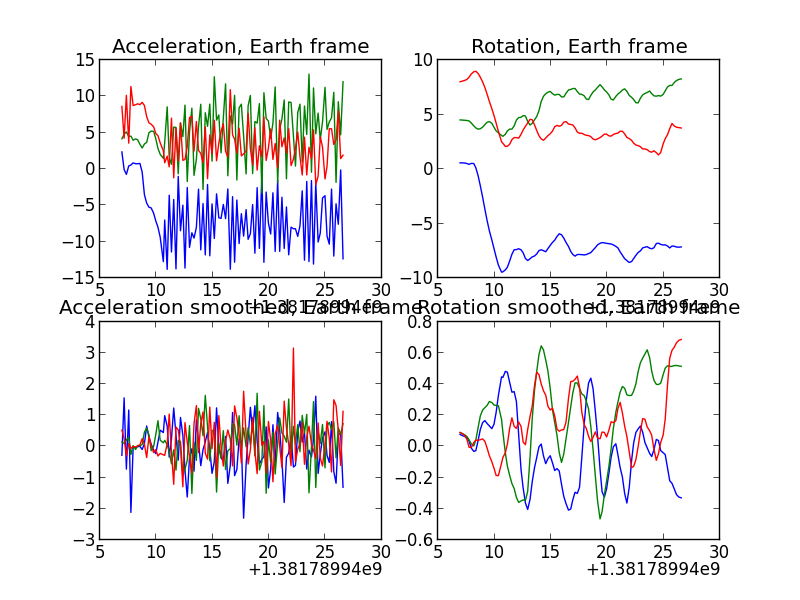
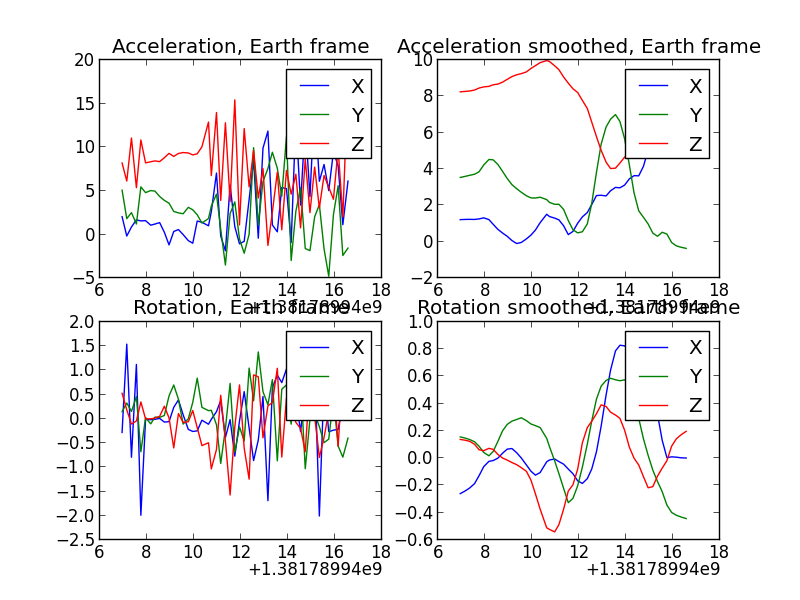
Got the clean_circle.tsv data fine-tuned.

diff --git a/isometry_H1.py b/isometry_H1.py
@@ -16,39 +16,48 @@ from quaternion import Quaternion as H
 #-------------------------------------
 
 class Config:
-  def __init__(self, t_f, delta_t, a_f, r_f, t_i = 0, a_i=H(), v_i=H(), p_i=H(), r_i=H(), o_i=H(1,0,0,0)):
+  def __init__(self, t_f, delta_t, a_d, r_d, t_i = 0, a_i=H(), v_i=H(), p_i=H(), r_i=H(), o_i=H(1,0,0,0)):
+    # we integrate the initial coordinates for a time delta_t.
+    # the final coordinates are computed here and recorded
+    # to become the initial values for the subsequent step.
+
+    # all '*_i' and '*_f' variables are in earth coordinates.
+    # the '*_d' varibles are deltas in the moving coordinates of the device.
+    # thus, they should be applied to the initial (trans'd) coords to give the final transformed coords.
+
     self.delta_t = delta_t
 
     self.t_i = t_i # initial time
-    self.a_i = a_i # initial acceleration of primed origin wrt unprimed origin
-    self.v_i = v_i # initial velocity of primed origin wrt unprimed origin
-    self.p_i = p_i # initial location of primed origin wrt unprimed origin
-    self.r_i = r_i # initial rotational velocity of primed coords wrt unprimed coords
-    self.o_i = o_i # initial orientation of primed coords wrt unprimed coords
+    self.a_i = a_i # initial acceleration in transformed coords
+    self.v_i = v_i # initial velocity in transformed coords
+    self.p_i = p_i # initial location in transformed coords
+    self.r_i = r_i # initial rotational velocity in transformed coords
+    self.o_i = o_i # initial orientation in transformed coords
 
     self.t_f = t_f # final time
-    self.a_f = a_f # final acceleration of primed origin wrt unprimed origin
-    self.r_f = r_f # final rotational velocity of primed coords wrt unprimed coords
+    #self.a_f = a_f # final acceleration of primed origin wrt unprimed origin
+    #self.r_f = r_d # final rotational velocity in transformed coords
 
-    self.updateOrientation()
-    self.updatePosition()
+    self.updateOrientation(r_d)
+    self.updatePosition(a_d)
 
-  def updatePosition(self):
-    self.a_f = self.o_f * self.a_f * ~self.o_f
+  def updatePosition(self, a_d):
+    self.a_f = self.o_f * a_d * ~self.o_f
     self.v_f = self.v_i + (self.a_i + self.a_f)/2.0 * self.delta_t
     self.p_f = self.p_i + (self.v_i + self.v_f)/2.0 * self.delta_t
 
-  def updateOrientation(self):
+  def updateOrientation(self, r_d):
     # r_n units are radians per second.
     # to get the current orientation, exponentiate the _previous_ rotational rate
     # for a time of self.delta_t, starting from the previous orientation
-    self.o_f = ((self.r_i * self.delta_t).exp() * self.o_i).normalize()
+    self.r_f = self.o_i * r_d * ~self.o_i
+    self.o_f = ((self.r_f * self.delta_t).exp() * self.o_i).normalize()
 
   def getInitialConfig(self):
-    return (self.a_i, self.v_i, self.p_i, self.r_i, self.o_i)
+    return (self.t_i, self.a_i, self.v_i, self.p_i, self.r_i, self.o_i)
 
   def getFinalConfig(self):
-    return (self.a_f, self.v_f, self.p_f, self.r_f, self.o_f)
+    return (self.t_f, self.a_f, self.v_f, self.p_f, self.r_f, self.o_f)
 
   def setFinalConfig(self, t_f, a_f, v_f, p_f, r_f, o_f):
     self.t_f = t_f
@@ -59,13 +68,17 @@ class Config:
     self.o_f = o_f
 
   def printConfig(self):
+    '''
+    print 't_i: %s' % (self.t_i)
     print 'a_i: %s' % (self.a_i)
     print 'v_i: %s' % (self.v_i)
     print 'p_i: %s' % (self.p_i)
     print 'r_i: %s' % (self.r_i)
     print 'o_i: %s' % (self.o_i)
-    print 'a_f: %s' % (self.a_f)
-    print 'v_f: %s' % (self.v_f)
+    '''
+    print 't_f: %s' % (self.t_f)
+    print 'a_f: %s, %s' % (self.a_f, abs(self.a_f))
+    print 'v_f: %s, %s' % (self.v_f, abs(self.v_f))
     print 'p_f: %s' % (self.p_f)
     print 'r_f: %s' % (self.r_f)
     print 'o_f: %s' % (self.o_f)
@@ -79,9 +92,9 @@ class Configs:
     self.aConfigs.append(initConfig)
 
   def addConfig(self, t_f, delta_t, a_f, r_f):
-    finalConfig = self.aConfigs[len(self.aConfigs)-1].getFinalConfig()
+    initConfig = self.aConfigs[len(self.aConfigs)-1].getFinalConfig()
 
-    self.aConfigs.append(Config(t_f, delta_t, a_f, r_f, *finalConfig))
+    self.aConfigs.append(Config(t_f, delta_t, a_f, r_f, *initConfig))
 
   def cancelGravity(self):
     window_size = 15
@@ -110,26 +123,28 @@ class Configs:
     # plot path
     ax.plot([c.p_f.x for c in self.aConfigs], [c.p_f.y for c in self.aConfigs], [c.p_f.z for c in self.aConfigs])
 
+    '''
     for c in self.aConfigs:
       ax.scatter([c.p_f.x], [c.p_f.y], [c.p_f.z], c='r')
     '''
     # plot moving frames
     for c in self.aConfigs:
-      x_frame = c.p_f + c.o_f * x_axis * ~c.o_f * 100.0
-      y_frame = c.p_f + c.o_f * y_axis * ~c.o_f * 100.0
-      z_frame = c.p_f + c.o_f * z_axis * ~c.o_f * 100.0
+      rescale = 1.0/50
+      x_frame = c.p_f + c.o_f * x_axis * ~c.o_f * rescale
+      y_frame = c.p_f + c.o_f * y_axis * ~c.o_f * rescale
+      z_frame = c.p_f + c.o_f * z_axis * ~c.o_f * rescale
 
       ax.plot([c.p_f.x, x_frame.x], [c.p_f.y, x_frame.y], [c.p_f.z, x_frame.z], c='r')
       ax.plot([c.p_f.x, y_frame.x], [c.p_f.y, y_frame.y], [c.p_f.z, y_frame.z], c='g')
       ax.plot([c.p_f.x, z_frame.x], [c.p_f.y, z_frame.y], [c.p_f.z, z_frame.z], c='b')
       #plt.plot([x_frame.x, c['p'].x, y_frame.x], [x_frame.y, c['p'].y, y_frame.y])
-    '''
+
     plt.axis('equal')
     #outfilename = 'img/motion_%s.png' % (re.sub("\..*$", "", sys.argv[1]))
     outfilename = 'img/%s_motion.png' % (re.sub("\..*$", "", sys.argv[0]))
     plt.savefig(outfilename)
 
-    
+  def plotSmoothConfigs(self): 
     #--- plot components ----------------------------
     t = np.array([c.t_f for c in self.aConfigs[2:]])
 
@@ -161,24 +176,28 @@ class Configs:
     plt.plot(t, a_x, label='X')
     plt.plot(t, a_y, label='Y')
     plt.plot(t, a_z, label='Z')
+    plt.legend()
     plt.title('Acceleration, Earth frame')
 
     plt.subplot(2,2,2)
     plt.plot([i[0] for i in a_x0], [i[1] for i in a_x0], label='X')
     plt.plot([i[0] for i in a_y0], [i[1] for i in a_y0], label='Y')
     plt.plot([i[0] for i in a_z0], [i[1] for i in a_z0], label='Z')
-    plt.title('Rotation, Earth frame')
+    plt.legend()
+    plt.title('Acceleration smoothed, Earth frame')
 
     plt.subplot(2,2,3)
     plt.plot(t, r_x, label='X')
     plt.plot(t, r_y, label='Y')
     plt.plot(t, r_z, label='Z')
-    plt.title('Acceleration smoothed, Earth frame')
+    plt.legend()
+    plt.title('Rotation, Earth frame')
 
     plt.subplot(2,2,4)
     plt.plot([i[0] for i in r_x0], [i[1] for i in r_x0], label='X')
     plt.plot([i[0] for i in r_y0], [i[1] for i in r_y0], label='Y')
     plt.plot([i[0] for i in r_z0], [i[1] for i in r_z0], label='Z')
+    plt.legend()
     plt.title('Rotation smoothed, Earth frame')
 
     outfilename = 'img/%s_earth_frame.png' % (re.sub("\..*$", "", sys.argv[0]))

diff --git a/main_tsv.py b/main_tsv.py
@@ -11,13 +11,16 @@ lowess = sm.nonparametric.lowess
 #--- read in data ---------
 # since G and A alternate, use the timestamp of G. average all subsequent A's
 # until the next G, and advance the result to the leading G's timestamp.
- 
+
+#datafile = sys.argv[1] 
+datafile = 'ideal.tsv'
+
 data = []
 prev_t = 0
 cnt_A = 0
 o = {'time': 0, 'delta_t': 0., 'acc': np.zeros(3), 'rot': np.zeros(3)}
 
-reader = csv.reader(open('stuff.tsv', "rb"), delimiter=' ')
+reader = csv.reader(open(datafile, "rb"), delimiter=' ')
 for row in reader:
   if row[1] == 'G':
     delta_t = float(row[0]) - prev_t if prev_t != 0 else 0
@@ -39,7 +42,7 @@ for row in reader:
 
 #--------------------------------
 def lowess_filter():
-  df = pd.io.parsers.read_csv(open('stuff.tsv', "rb"), delimiter=' ', names=['time','sensor','x','y','z'])
+  df = pd.io.parsers.read_csv(open(datafile, "rb"), delimiter=' ', names=['time','sensor','x','y','z'])
 
   #--- plot ---------
   subplot_num = 0
@@ -114,8 +117,8 @@ def rolling_mean_filter():
   outfilename = 'img/%s_rotation_filter.png' % (re.sub("\..*$", "", sys.argv[0]))
   plt.savefig(outfilename)
 
-lowess_filter()
-rolling_mean_filter()
+#lowess_filter()
+#rolling_mean_filter()
 '''
 window_size = 15
 df['gravX'] = pd.Series(pd.rolling_mean(df, window_size)['accX'], index=df.index)
@@ -124,10 +127,13 @@ df['gravZ'] = pd.Series(pd.rolling_mean(df, window_size)['accZ'], index=df.index
 '''
 #-----------------------------------
 c = Configs()
-for d in data[0:100]:
+for d in data:
   acc = np.insert(d['acc'], 0 ,0)
   rot = np.insert(d['rot'], 0, 0)
   rot = [i/2.0 for i in rot] # quaternions need only _half_ the angle
   c.addConfig(d['time'], d['delta_t'], H(*acc), H(*rot))
 
 c.plotConfigs()
+
+for i in c.aConfigs:
+  i.printConfig()
